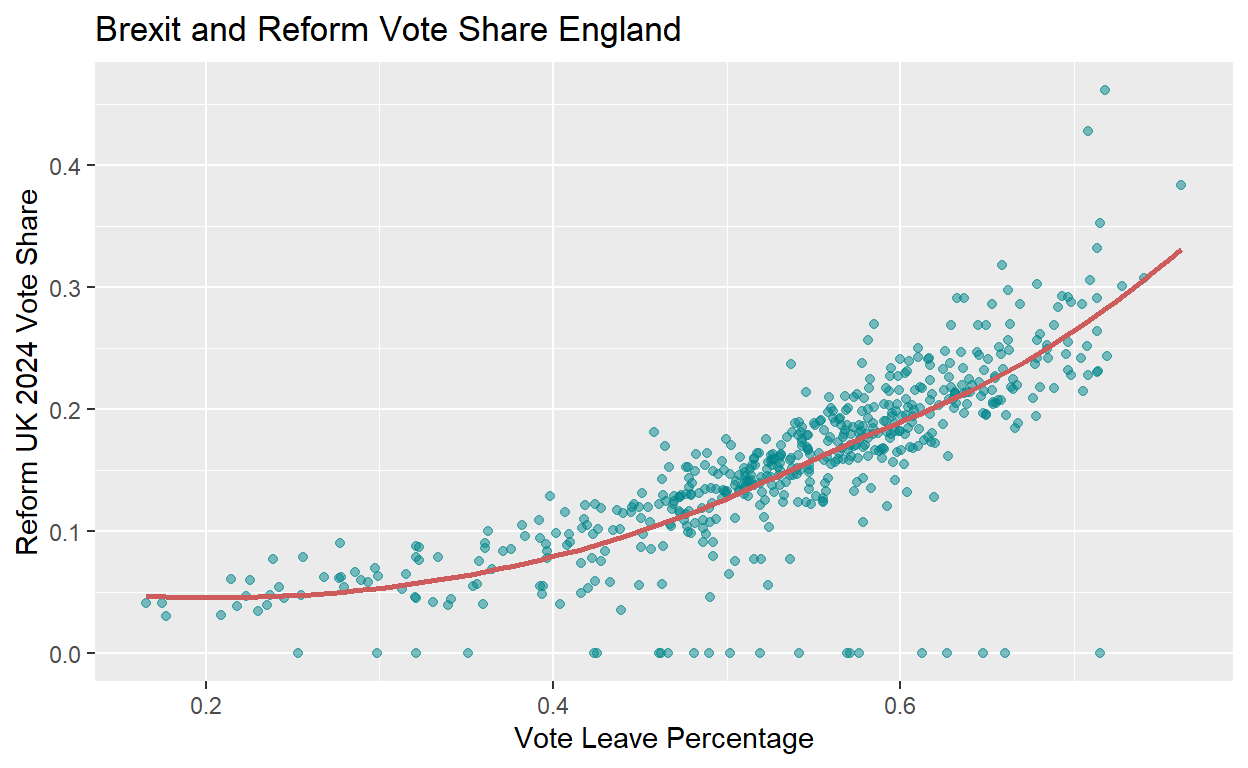
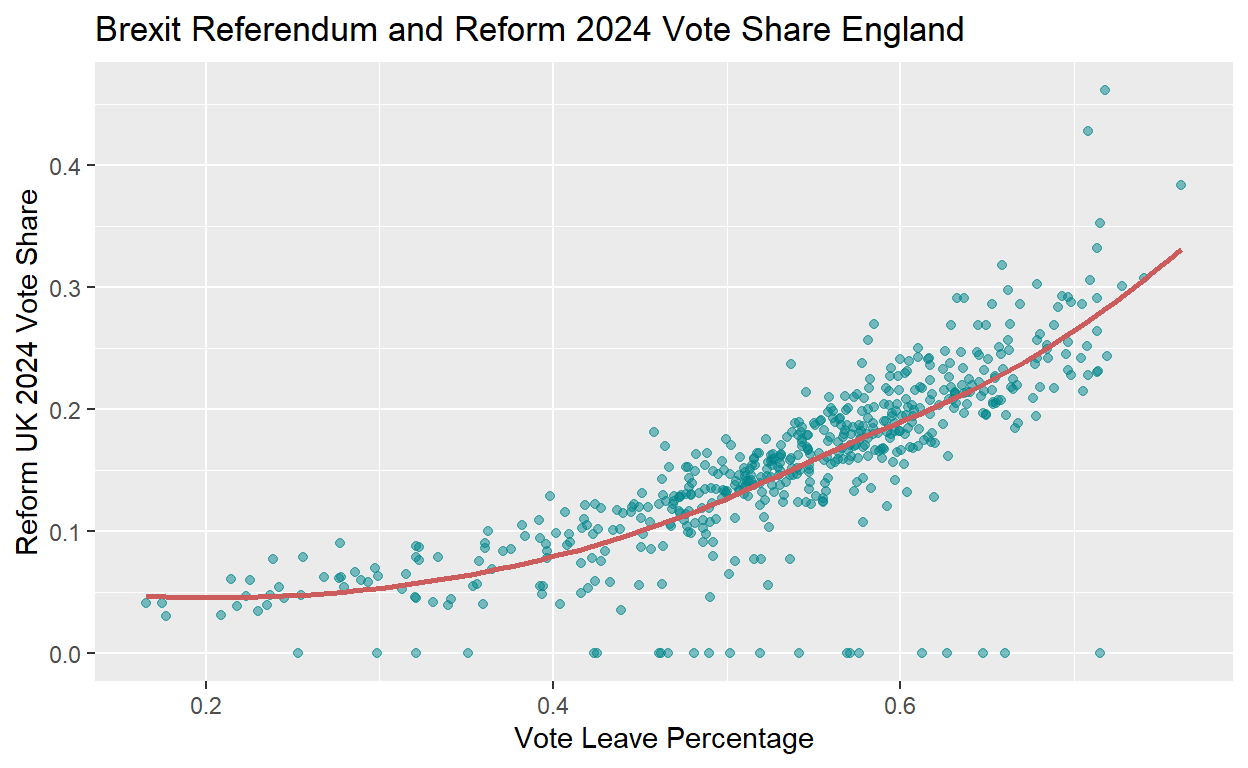
Milestone 3

Changed region(s): [[0.1562, 0.0, 0.7812, 0.0625]]

diff --git a/index.html b/index.html
@@ -1603,7 +1603,7 @@ code span.wa { color: #5e5e5e; font-style: italic; } /* Warning */
 <span>  <span class='fu'><a href='https://ggplot2.tidyverse.org/reference/labs.html'>labs</a></span><span class='op'>(</span></span>
 <span>    x <span class='op'>=</span> <span class='st'>"Vote Leave Percentage"</span>,</span>
 <span>    y <span class='op'>=</span> <span class='st'>"Reform UK 2024 Vote Share"</span>,</span>
-<span>  title <span class='op'>=</span> <span class='st'>"Brexit and Reform Vote Share England"</span></span>
+<span>  title <span class='op'>=</span> <span class='st'>"Brexit Referendum and Reform 2024 Vote Share England"</span></span>
 <span>  <span class='op'>)</span></span></code></pre>
 </div>
 <p><img src="index_files/figure-html5/unnamed-chunk-2-1.png" width="624" /></p>
